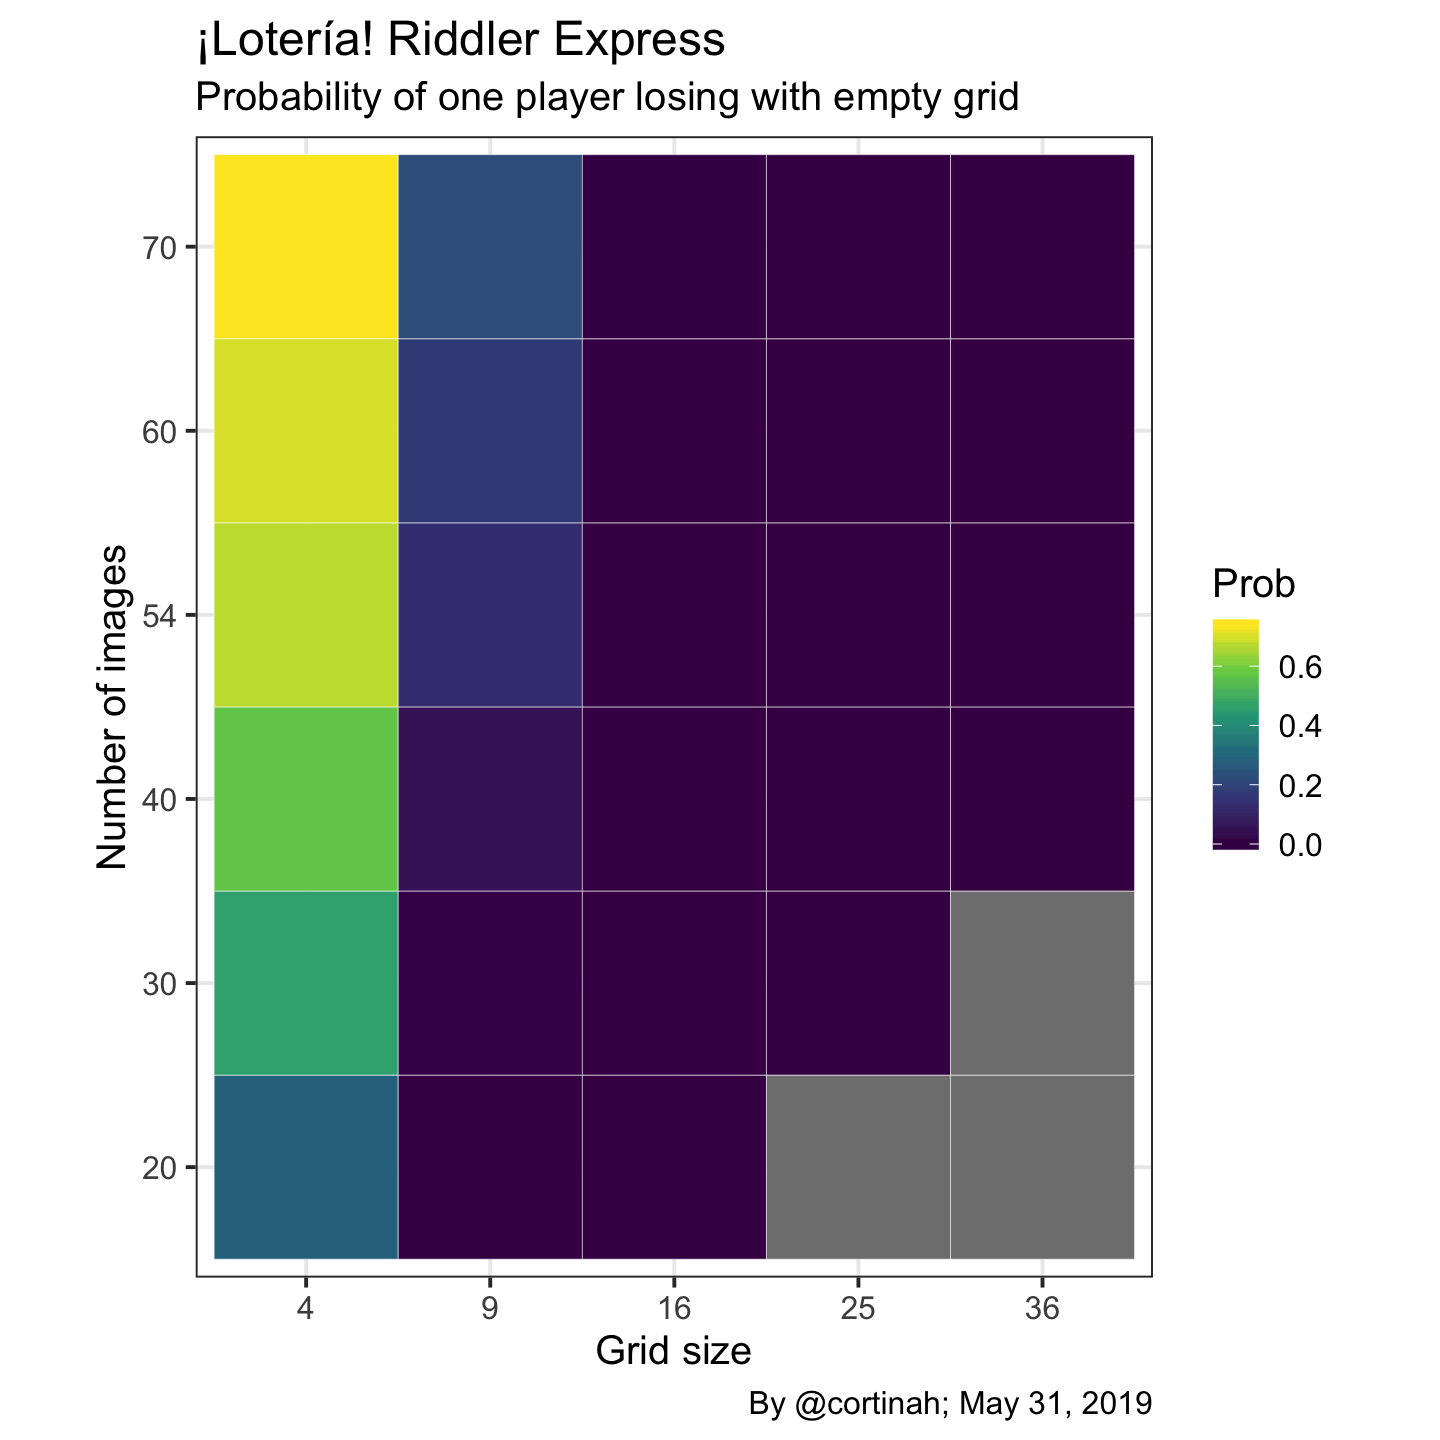
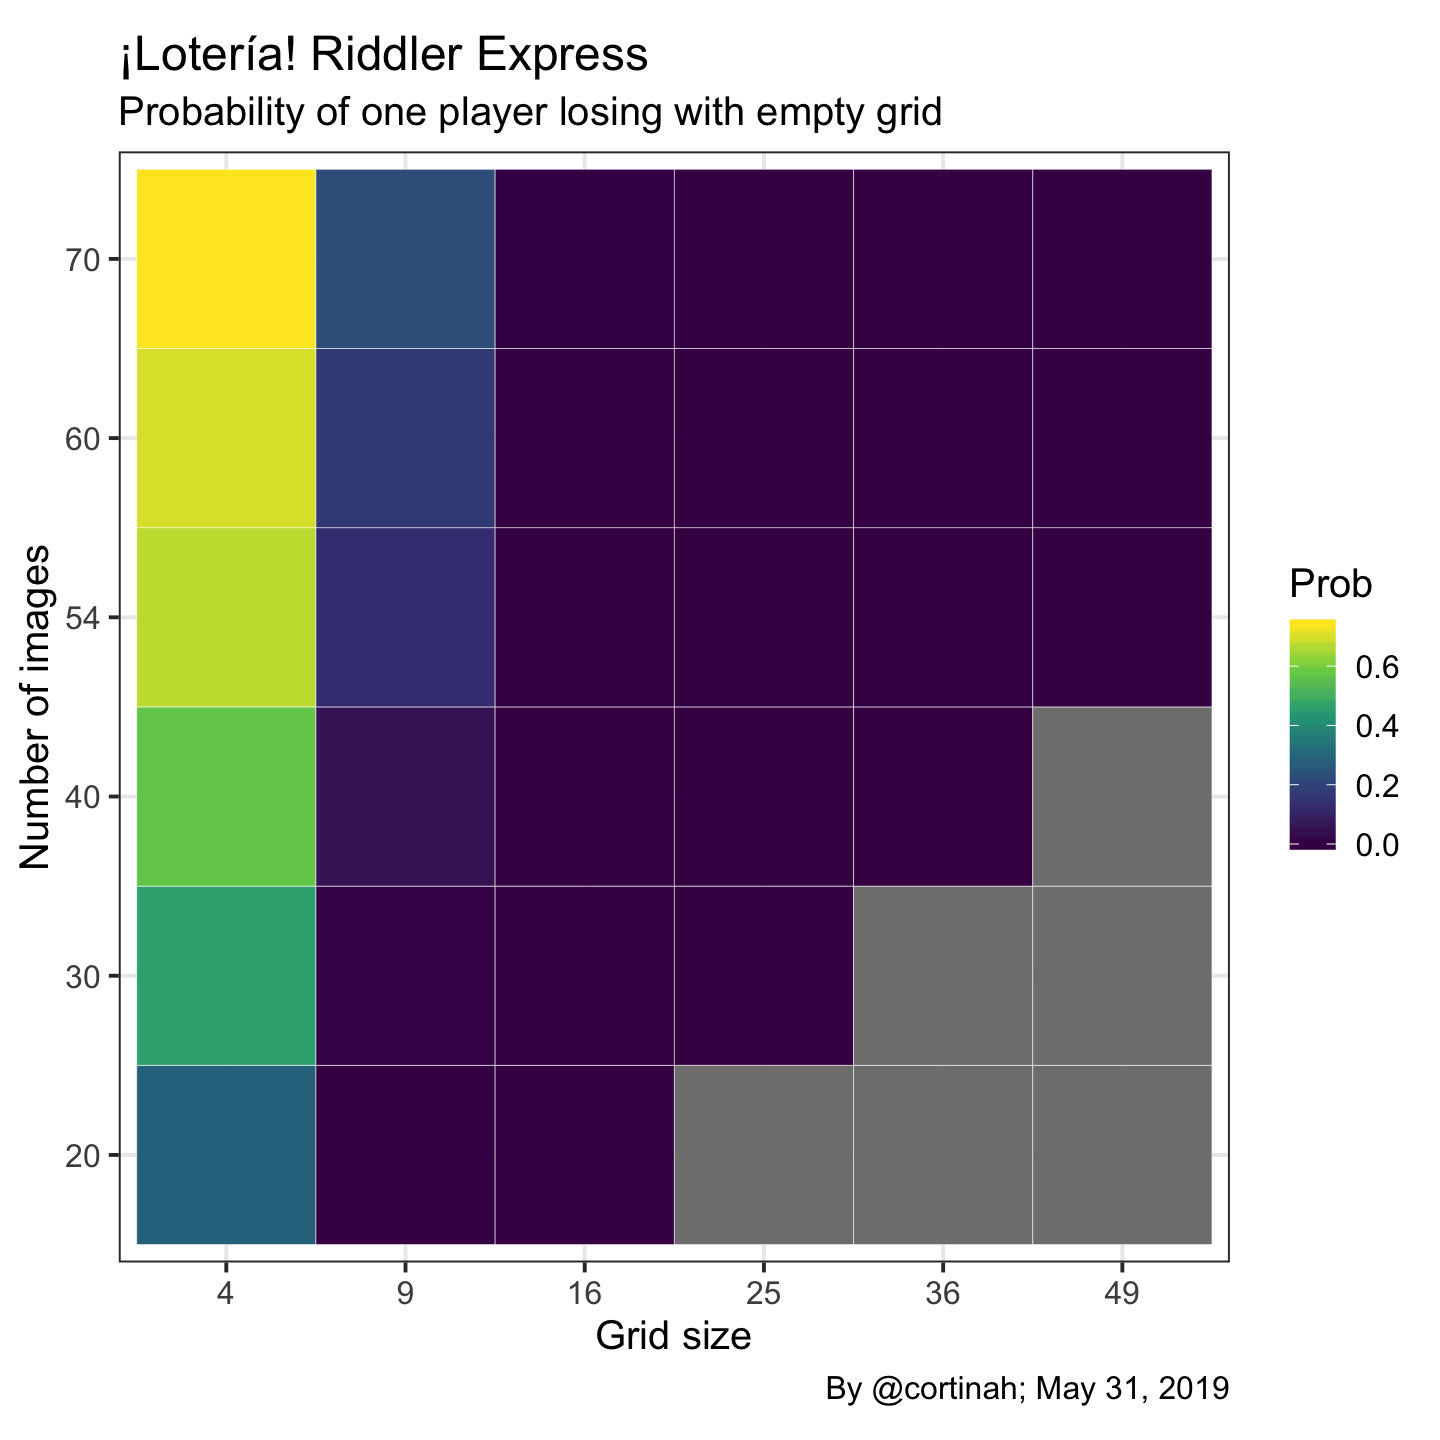
enlarge grid

diff --git a/content/post/2019-05-31-riddler-express-loteria.html b/content/post/2019-05-31-riddler-express-loteria.html
@@ -32,7 +32,7 @@ and so on.</p>
 </div>
 <div id="different-sized-grids-and-number-of-images" class="section level2">
 <h2>Different sized grids and number of images</h2>
-<p>Below we explore how grids of ranging from 2x2 to 6x6, as well as 20-70 images change the probability of wiping out.
+<p>Below we explore how grids of ranging from 2x2 to 7x7, as well as 20-70 images change the probability of wiping out.
 As shown, the larger the grid and the more images there are, the less likely that a player doesn’t mark off a single image becomes. The cases on the lower right are not valid since there are fewer images than squares on the grid.</p>
 <pre class="r"><code>loteria &lt;- function(grid=16, symbols=54) {
   
@@ -41,8 +41,8 @@ map_dbl(~ (symbols -.x -(grid+1)) / (symbols - .x)) %&gt;% prod()
 }
 
 
-gridprob &lt;- data.frame(x=rep(c(4,9,16,25,36),6),
-                      y=rep(c(20,30,40,54,60,70), each=5))
+gridprob &lt;- data.frame(x=rep(c(4,9,16,25,36,49),6),
+                      y=rep(c(20,30,40,54,60,70), each=6))
 
 gridprob$Prob &lt;- map2_dbl(gridprob$x, gridprob$y, loteria)
 
